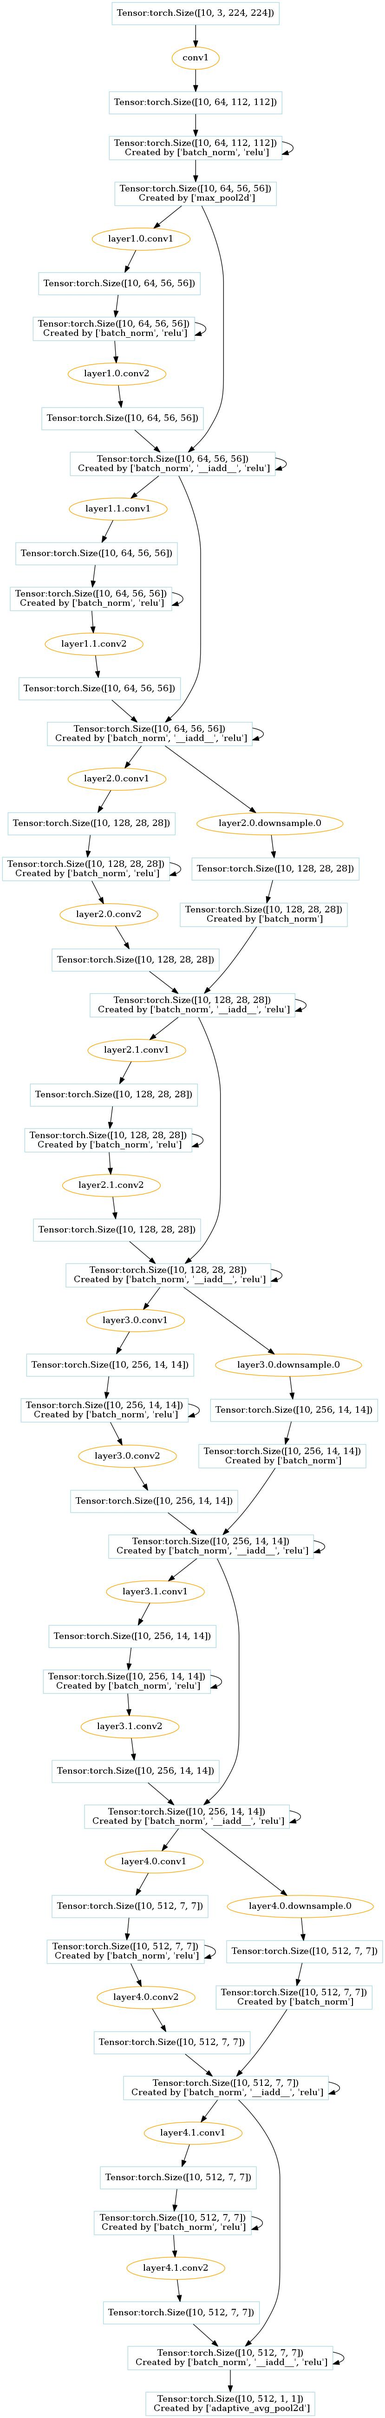
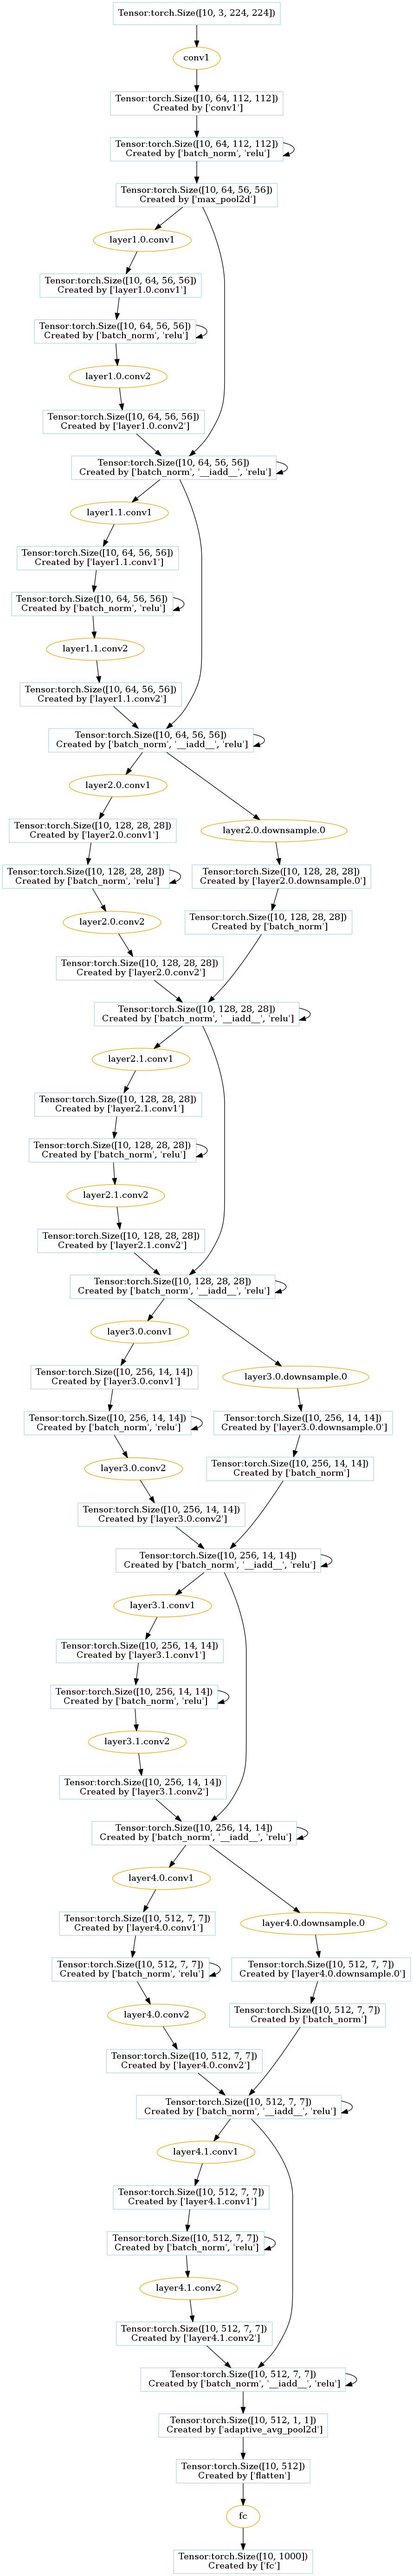
Also add the resnet50 as an example.

Changed region(s): [[0.0302, 0.0, 0.9349, 1.0]]

diff --git a/lib/pytorch_visual.py b/lib/pytorch_visual.py
@@ -30,7 +30,10 @@ class Pytorch_Visual:
         # The functions need to be hooked to build up the graph
         # Variable use the same add operation of Tensor (torch.Tensor.__add__)
         self.func_need_hook = []
-        tensor_keys = ['view', '__add__', '__iadd__']
+        torch_keys = ['flatten', 'squeeze', 'unsqueeze']
+        for attr in torch_keys:
+            self.func_need_hook.append((torch, attr))
+        tensor_keys = ['view', '__add__', '__iadd__', 'flatten', 'squeeze', 'unsqueeze']
         #tensor_keys = ['view', '__add__']
         for attr in tensor_keys:
             self.func_need_hook.append((torch.Tensor, attr))
@@ -122,7 +125,7 @@ class Pytorch_Visual:
             self.forward_edge[mid] = [oid]
             module.input_tensors = iids
             module.output_tensor = oid
-            output.gragh_info = {'from' : [module.module_name]}
+            output.graph_info = {'from' : [module.module_name]}
             
         return forward_hook
 

diff --git a/example.py b/example.py
@@ -4,8 +4,10 @@ import torch.nn as nn
 import torchvision
 import torchvision.models as models
 from lib.pytorch_visual import Pytorch_Visual
-model = models.resnet18()
-
+model = models.resnet50()
+for name, mod in model.named_modules():
+    print(name, mod)
 data=torch.rand(10,3,224,224)
 pc= Pytorch_Visual(model, data)
-pc.visualization('resnet18')
+pc.visualization('resnet50')
+
